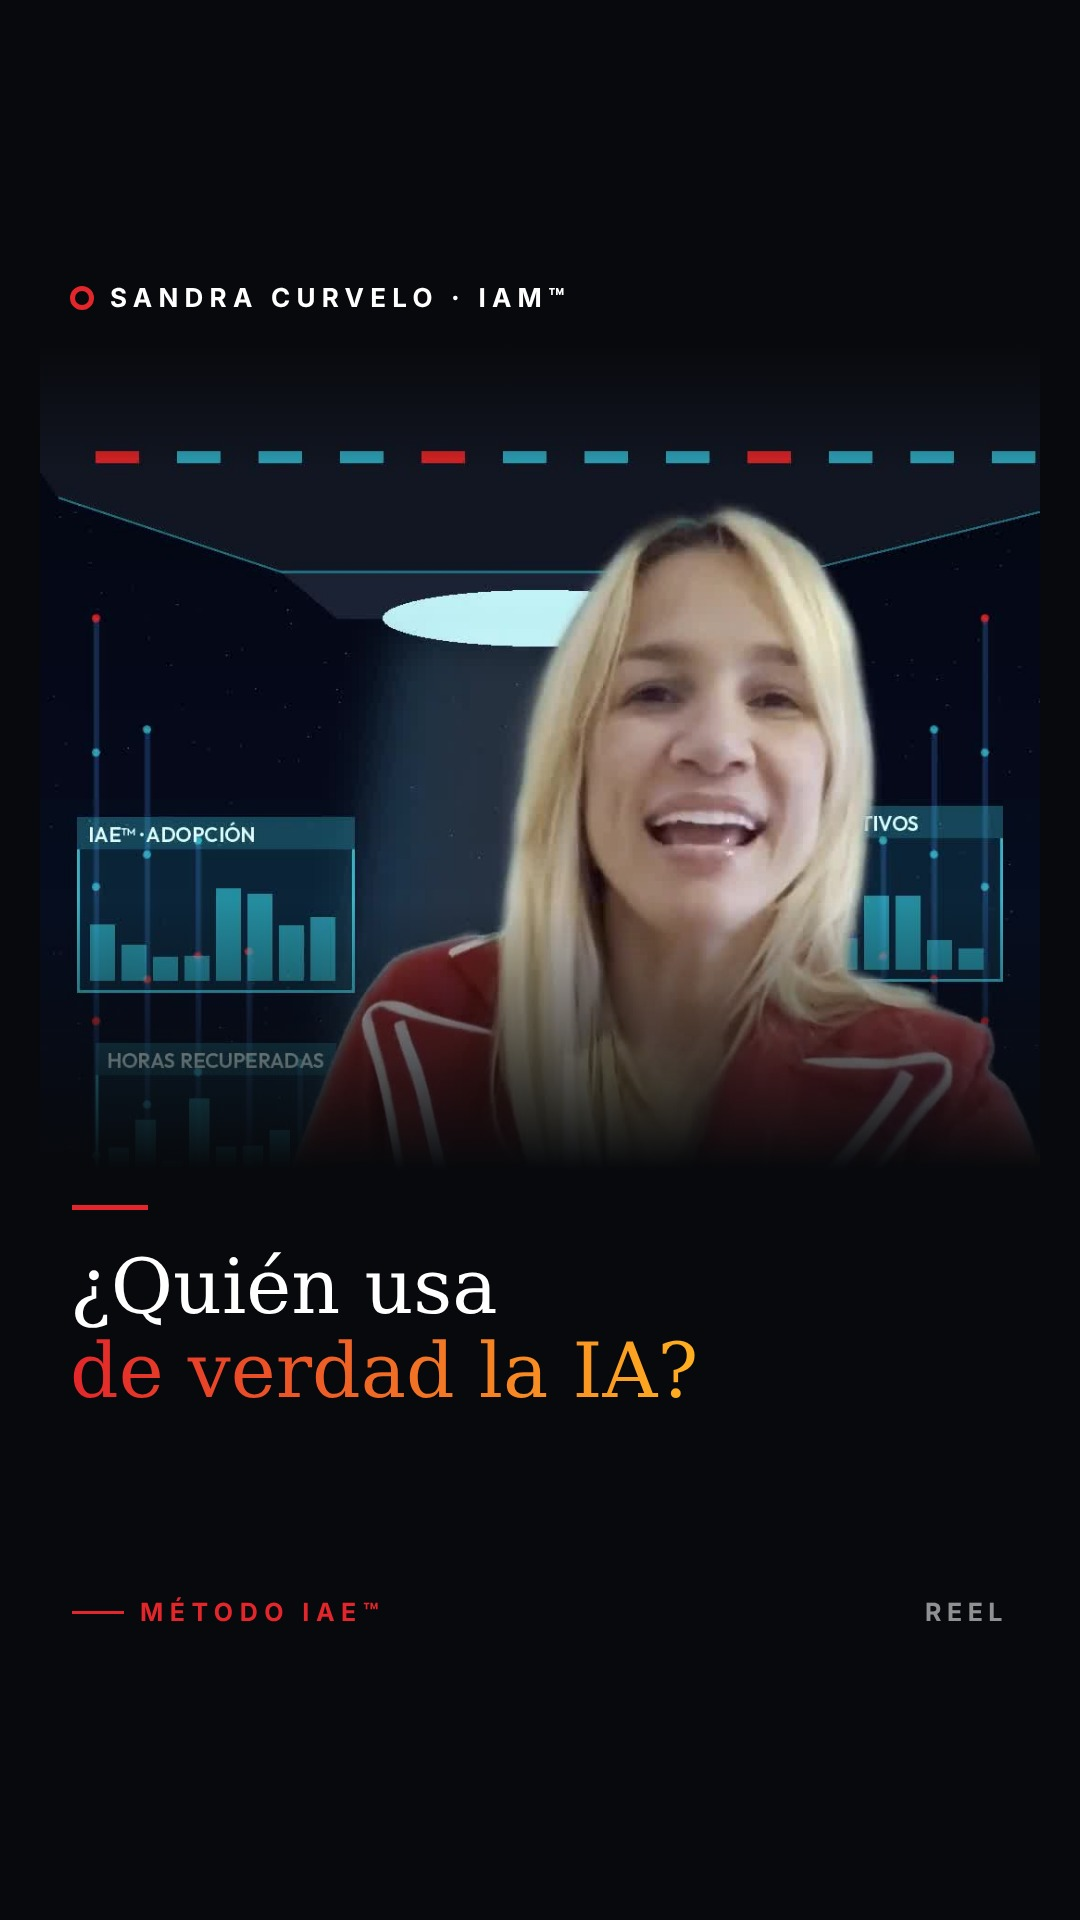
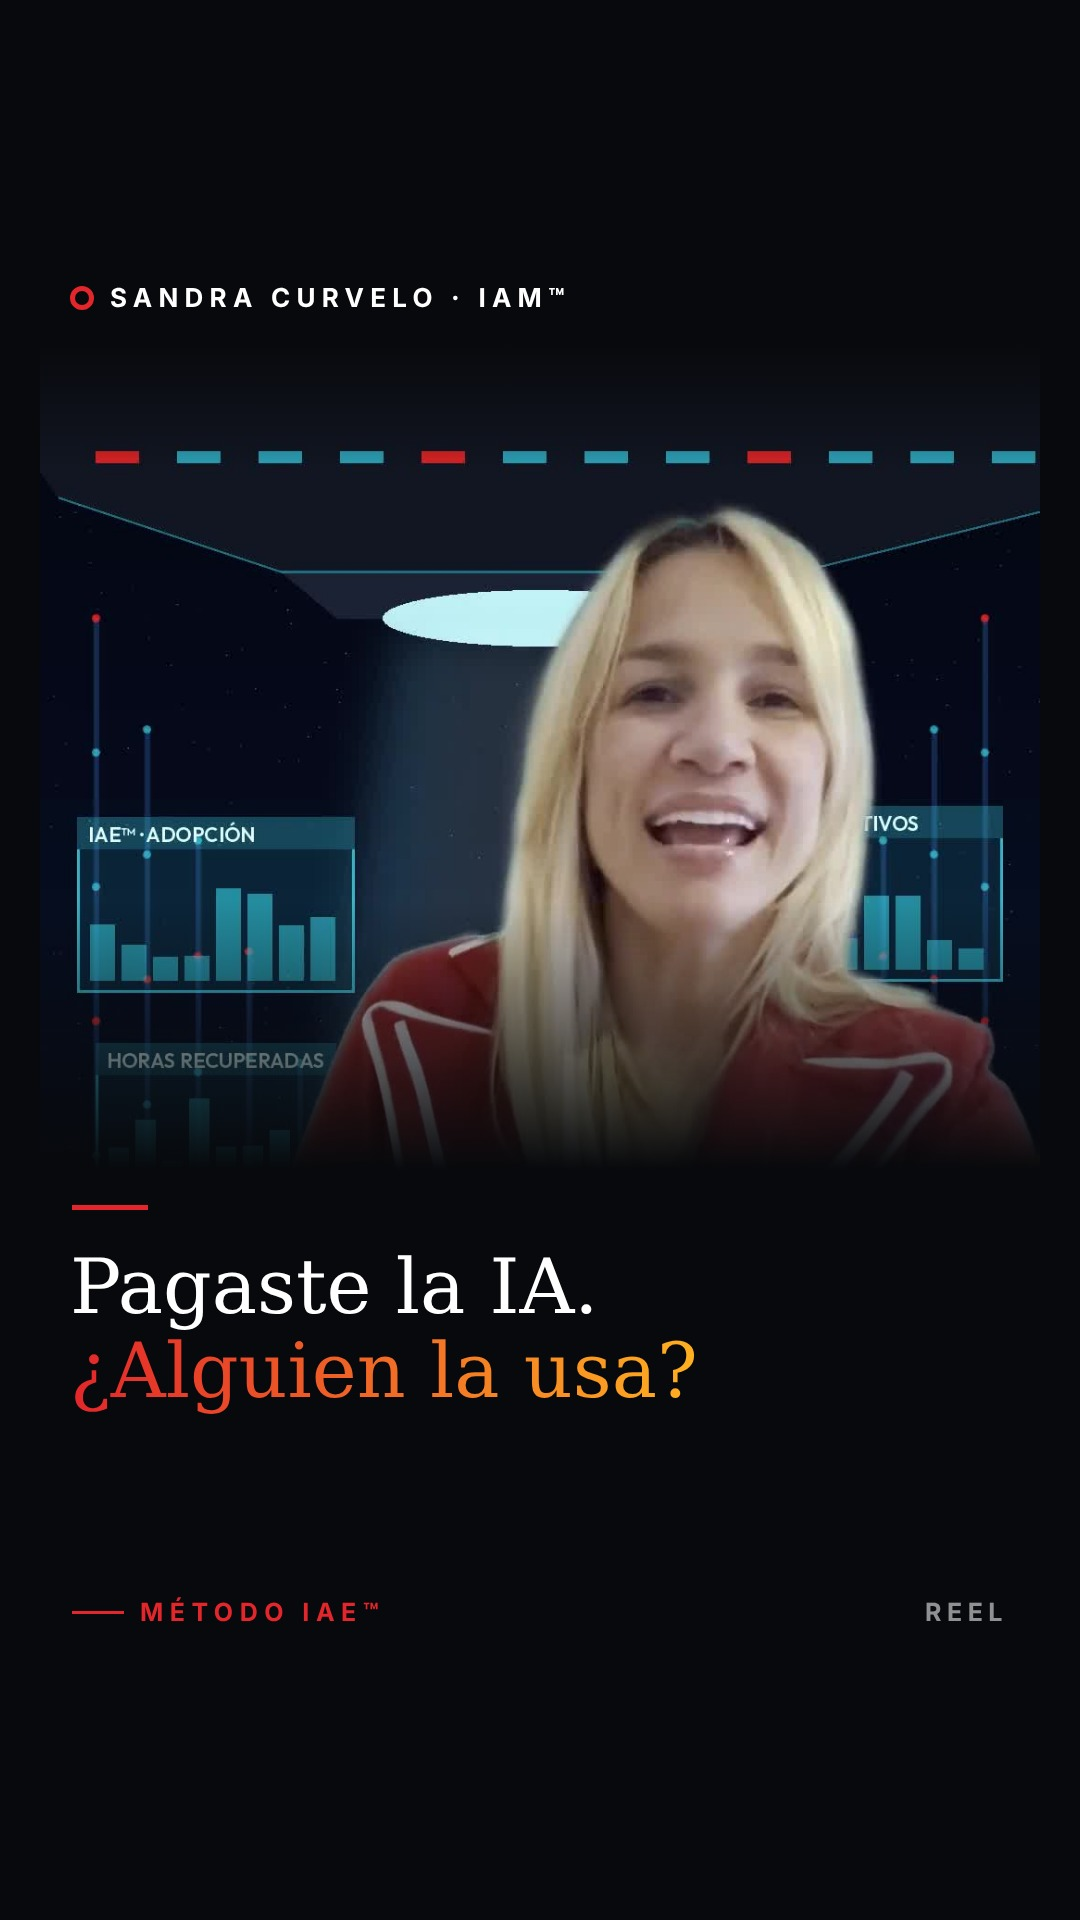
Portada IAE: Pagaste la IA. ¿Alguien la usa?
Claude-Session: https://claude.ai/code/session_01NfWH1YnxdbRLc9ZrUJbHYq

Changed region(s): [[0.0611, 0.6562, 0.6111, 0.75]]

diff --git a/estrategia/instagram/diseno-feed/gen.py b/estrategia/instagram/diseno-feed/gen.py
@@ -1,7 +1,7 @@
 import sys
 P=[
 ("agentica","conectores.jpg","dark","Claude no solo escribe.","Trabaja por ti.","Tips de Claude",(1250,0,50)),
-("iae","iae2.jpg","dark","¿Quién usa","de verdad la IA?","Método IAE™",(1000,0,50)),
+("iae","iae2.jpg","dark","Pagaste la IA.","¿Alguien la usa?","Método IAE™",(1000,0,50)),
 ("matia","robot.jpg","light","Claude actualiza","mi CRM.","Tips de Claude · Demo simulada",(1450,0,62)),
 ("prospecta","gorra.jpg","light","Claude prospecta.","Yo apruebo.","Tips de Claude · Demo simulada",(900,0,50)),
 ("alpina","alpina.jpg","dark","No llames en frío.","Llega sabiendo.","Recuerdos",(1300,-540,50)),
